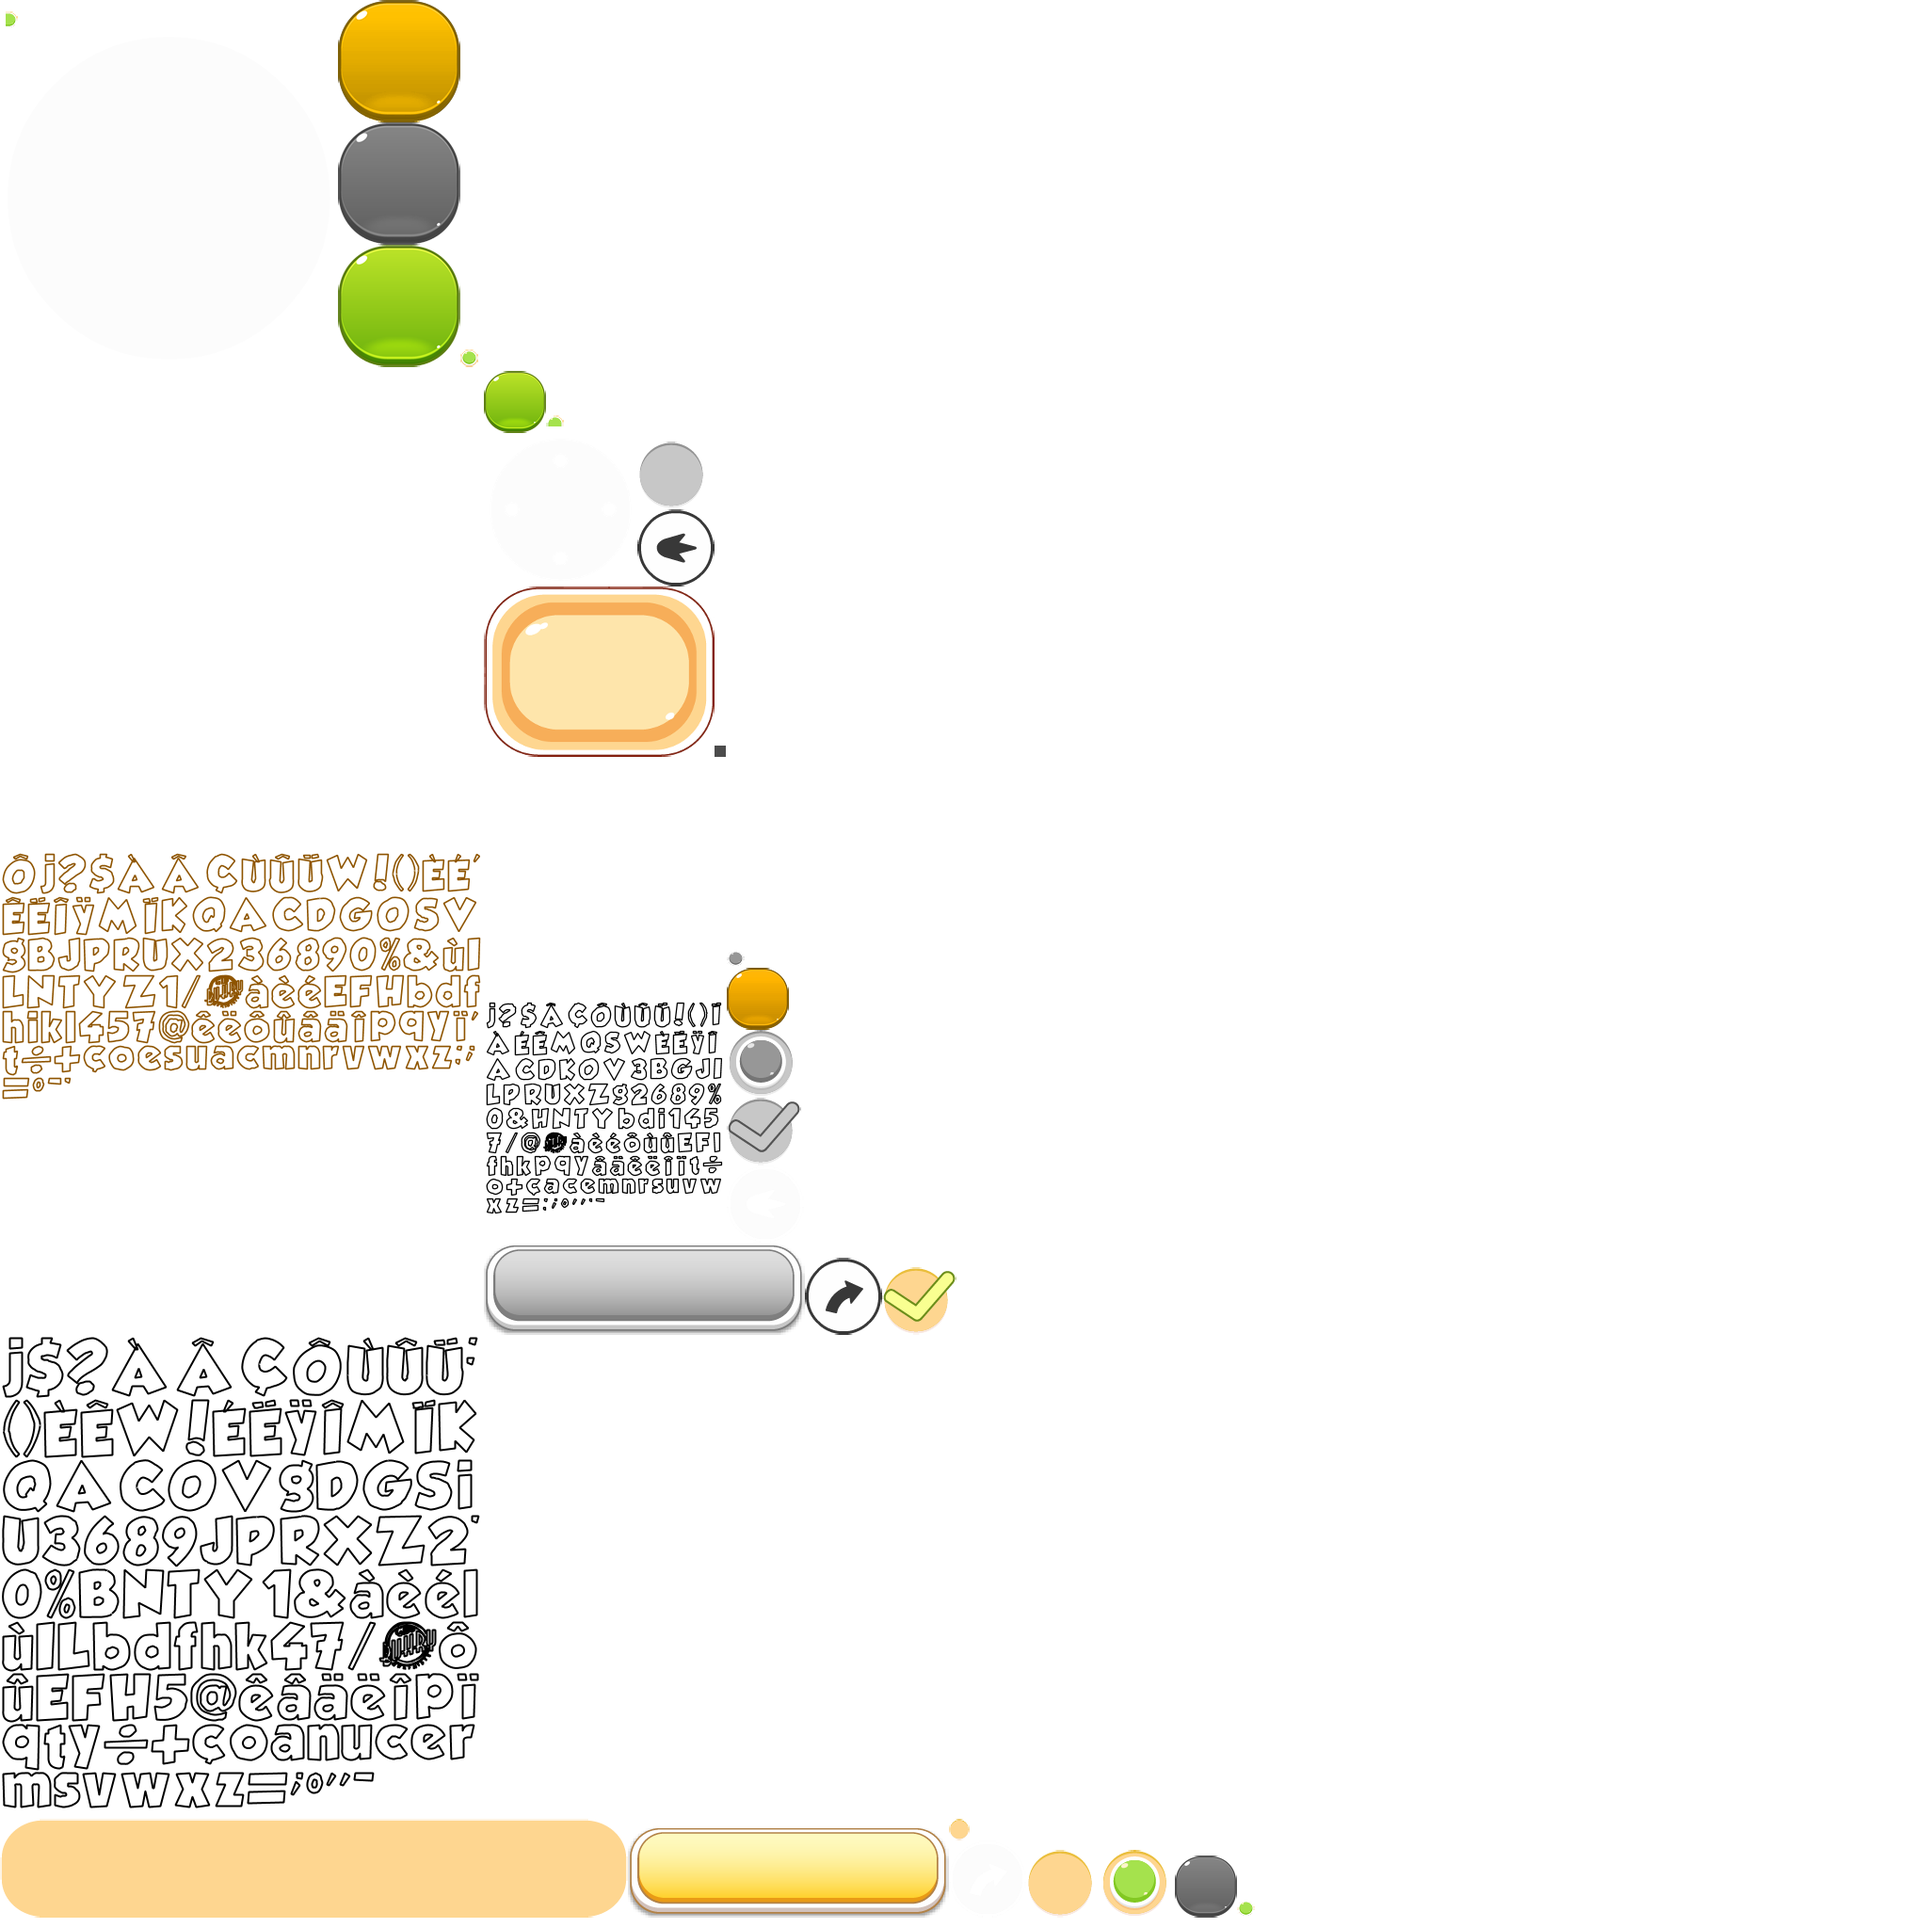
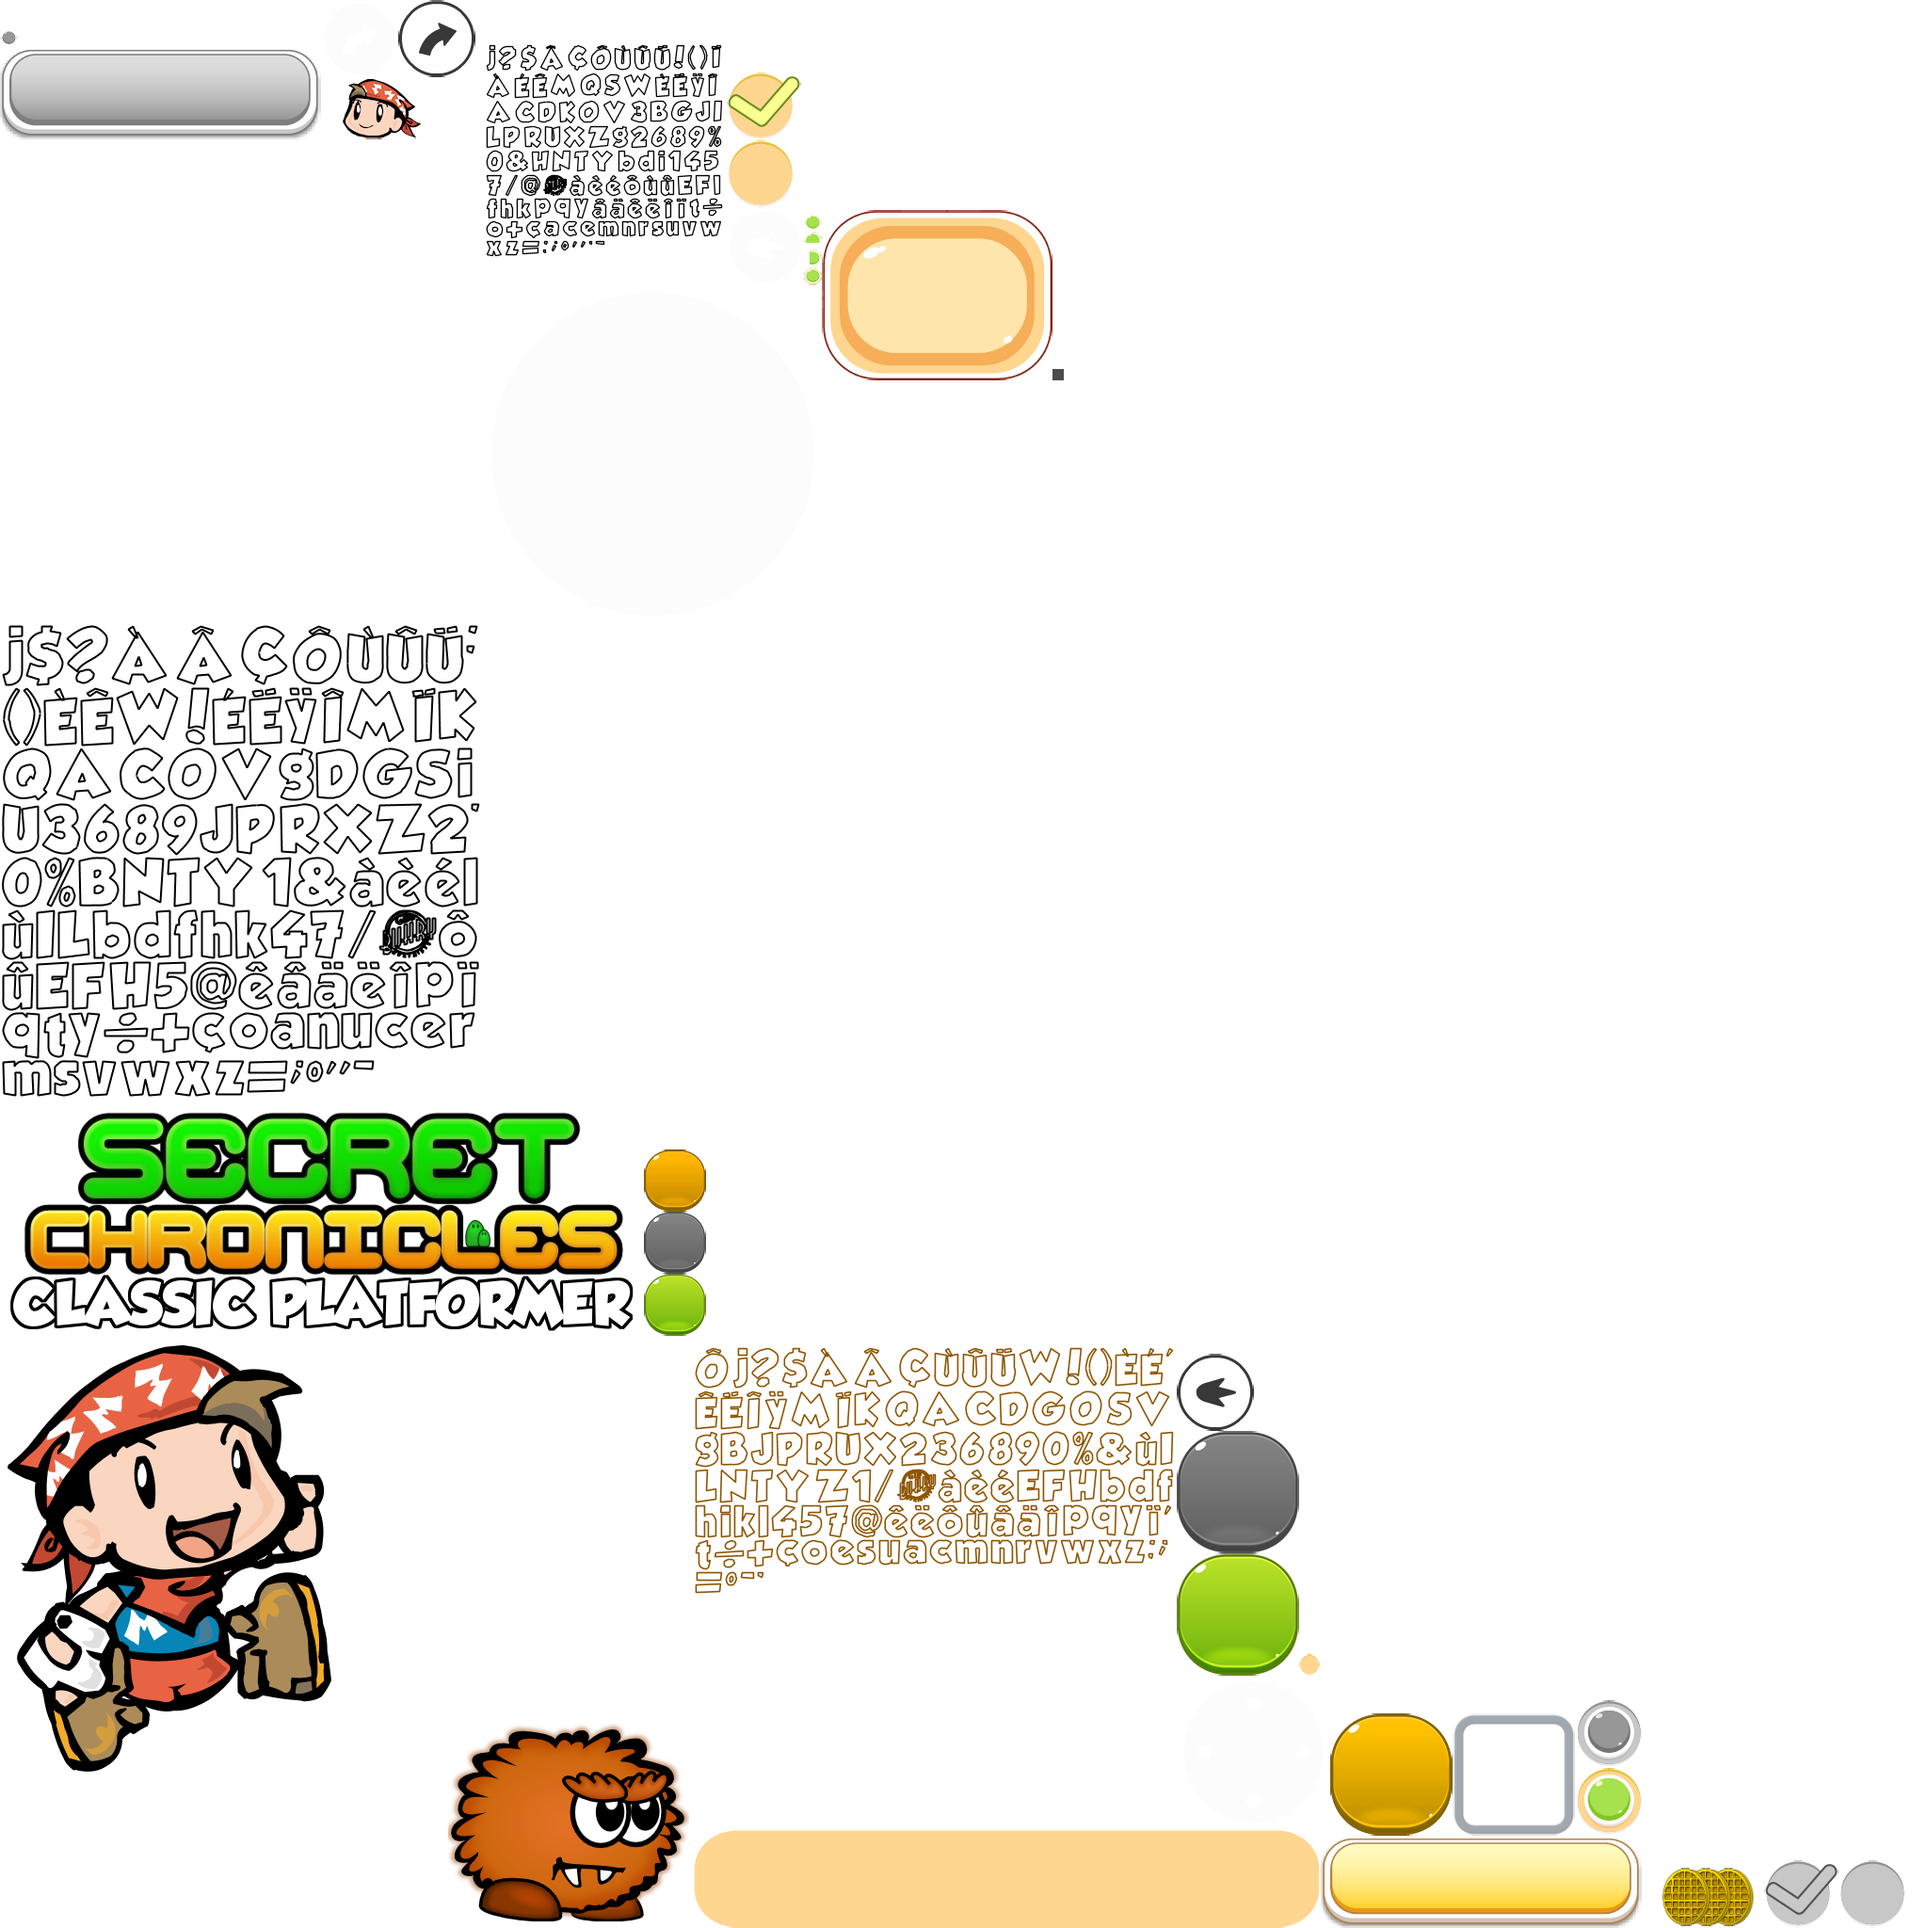
HUD Elemente in Skin

Changed region(s): [[0.0, 0.2188, 1.0, 1.0], [0.0, 0.0, 0.5625, 0.2188], [0.25, 0.1875, 0.2812, 0.25]]

diff --git a/core/src/rs/pedjaapps/smc/screen/LoadingScreen.java b/core/src/rs/pedjaapps/smc/screen/LoadingScreen.java
@@ -4,6 +4,7 @@ import com.badlogic.gdx.Gdx;
 import com.badlogic.gdx.graphics.Color;
 import com.badlogic.gdx.graphics.GL20;
 import com.badlogic.gdx.graphics.Texture;
+import com.badlogic.gdx.graphics.g2d.TextureRegion;
 import com.badlogic.gdx.graphics.glutils.ShapeRenderer;
 import com.badlogic.gdx.math.Interpolation;
 import com.badlogic.gdx.scenes.scene2d.ui.Image;
@@ -26,12 +27,11 @@ public class LoadingScreen extends AbstractScreen {
     private float percent;
     private AbstractScreen screenToLoadAfter;
     private boolean resume = false;
+    boolean assetsLoaded = false;
 
     public LoadingScreen(AbstractScreen screenToLoadAfter, boolean resume) {
         super(screenToLoadAfter.game);
-        game.assets.manager.load(Assets.LOGO_GAME, Texture.class, game.assets.textureParameter);
-        game.assets.manager.load(Assets.LOGO_LOADING, Texture.class, game.assets.textureParameter);
-        game.assets.manager.finishLoading();
+        game.assets.manager.finishLoadingAsset(Assets.SKIN_HUD);
 
         this.screenToLoadAfter = screenToLoadAfter;
         this.resume = resume;
@@ -53,8 +53,8 @@ public class LoadingScreen extends AbstractScreen {
         loading.addAction(HUD.getForeverFade());
         stage.addActor(loading);
 
-        Texture txtLoadingLogo = game.assets.manager.get(Assets.LOGO_LOADING, Texture.class);
-        txtLoadingLogo.setFilter(Texture.TextureFilter.Linear, Texture.TextureFilter.Linear);
+        TextureRegion txtLoadingLogo = game.assets.manager.get(Assets.SKIN_HUD, Skin.class)
+                .getAtlas().findRegion(Assets.LOGO_LOADING);
         Image imLoadingLogo = new Image(txtLoadingLogo);
         imLoadingLogo.setSize(imLoadingLogo.getWidth() * .33f, imLoadingLogo.getHeight() * .33f);
         imLoadingLogo.setPosition(stage.getWidth() / 2, loading.getY() + loading.getHeight() + (imGameLogo.getY() -
@@ -68,7 +68,7 @@ public class LoadingScreen extends AbstractScreen {
 
     @Override
     public void show() {
-        screenToLoadAfter.loadAssets();
+        assetsLoaded = false;
     }
 
     @Override
@@ -76,7 +76,7 @@ public class LoadingScreen extends AbstractScreen {
         // Clear the screen
         Gdx.gl.glClear(GL20.GL_COLOR_BUFFER_BIT);
 
-        if (game.assets.manager.update()) {
+        if (game.assets.manager.update() && assetsLoaded) {
             // Load some, will return true if done loading
             /*if(!resume)*/
             screenToLoadAfter.onAssetsLoaded();
@@ -97,6 +97,16 @@ public class LoadingScreen extends AbstractScreen {
 
         stage.act();
         stage.draw();
+
+        if (!assetsLoaded) {
+            Gdx.app.postRunnable(new Runnable() {
+                @Override
+                public void run() {
+                    screenToLoadAfter.loadAssets();
+                    assetsLoaded = true;
+                }
+            });
+        }
 
         //backgroundColor.render(stage.getCamera(), stage.getSp));
 

diff --git a/core/src/rs/pedjaapps/smc/view/HUD.java b/core/src/rs/pedjaapps/smc/view/HUD.java
@@ -62,8 +62,7 @@ public class HUD {
     private TextButton pauseButton, play, musicButton;
     private Button fire, jump;
     private Touchpad touchpad;
-    private TextureRegion item;
-    private Texture itemBox, maryoL, goldM;
+    private TextureRegion item, itemBox, maryoL, goldM;
     private ShapeRenderer shapeRenderer = new ShapeRenderer();
     private Table buttonsTable;
     private float stateTime;
@@ -104,13 +103,6 @@ public class HUD {
 
     public void loadAssets() {
         world.screen.game.assets.manager.load(Assets.SOUND_ITEM_LIVE_UP_2, Sound.class);
-
-        world.screen.game.assets.manager.load("data/game/itembox.png", Texture.class, world.screen.game.assets
-                .textureParameter);
-        world.screen.game.assets.manager.load("data/game/maryo_l.png", Texture.class, world.screen.game.assets
-                .textureParameter);
-        world.screen.game.assets.manager.load("data/game/gold_m.png", Texture.class, world.screen.game.assets
-                .textureParameter);
         world.screen.game.assets.manager.load("data/hud/help.png", Texture.class, world.screen.game.assets
                 .textureParameter);
     }
@@ -226,14 +218,9 @@ public class HUD {
 
         TextureAtlas dynAtlas = world.screen.game.assets.manager.get(Assets.ATLAS_DYNAMIC, TextureAtlas.class);
         item = dynAtlas.findRegion(MushroomDefault.TEXTURE_NAME);
-        itemBox = world.screen.game.assets.manager.get("data/game/itembox.png");
-        maryoL = world.screen.game.assets.manager.get("data/game/maryo_l.png");
-        goldM = world.screen.game.assets.manager.get("data/game/gold_m.png");
-
-        Texture.TextureFilter filter = Texture.TextureFilter.Linear;
-        itemBox.setFilter(filter, filter);
-        maryoL.setFilter(filter, filter);
-        goldM.setFilter(filter, filter);
+        itemBox = skin.getAtlas().findRegion("game_itembox");
+        maryoL = skin.getAtlas().findRegion("game_maryo_l");
+        goldM = skin.getAtlas().findRegion("game_gold_m");
 
         readyLbl = new Label("LET'S GET GOING!", skin, Assets.LABEL_BORDER60);
         readyLbl.setAlignment(Align.center);

diff --git a/core/src/rs/pedjaapps/smc/screen/MainMenuScreen.java b/core/src/rs/pedjaapps/smc/screen/MainMenuScreen.java
@@ -85,8 +85,8 @@ public class MainMenuScreen extends AbstractScreen {
     }
 
     public static Image createLogoImage(MaryoGame game) {
-        Texture gameLogo = game.assets.manager.get(Assets.LOGO_GAME);
-        gameLogo.setFilter(Texture.TextureFilter.Linear, Texture.TextureFilter.Linear);
+        TextureRegion gameLogo = game.assets.manager.get(Assets.SKIN_HUD, Skin.class)
+                .getAtlas().findRegion(Assets.LOGO_GAME);
         Image imGameLogo = new Image(gameLogo);
         imGameLogo.setSize(imGameLogo.getWidth() * .9f, imGameLogo.getHeight() * .9f);
         return imGameLogo;

diff --git a/core/src/rs/pedjaapps/smc/assets/Assets.java b/core/src/rs/pedjaapps/smc/assets/Assets.java
@@ -18,8 +18,8 @@ import com.badlogic.gdx.graphics.g2d.ParticleEffect;
  */
 public class Assets {
     public static final String SKIN_HUD = "data/hud/smcskin.json";
-    public static final String LOGO_GAME = "data/game/logo/smc_big_1.png";
-    public static final String LOGO_LOADING = "data/game/logo/loading.png";
+    public static final String LOGO_GAME = "logo_smc_big_1";
+    public static final String LOGO_LOADING = "logo_loading";
 
     public static final String FONT_SIMPLE25 = "grobold25";
     public static final String LABEL_SIMPLE25 = "small";
